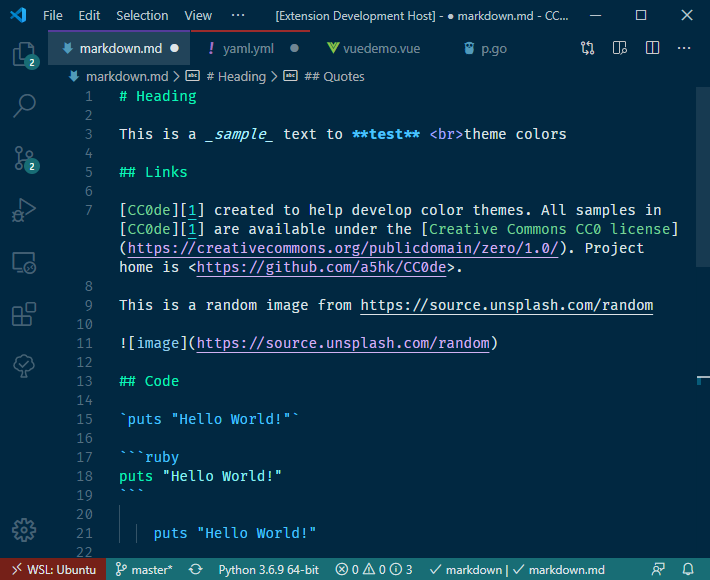
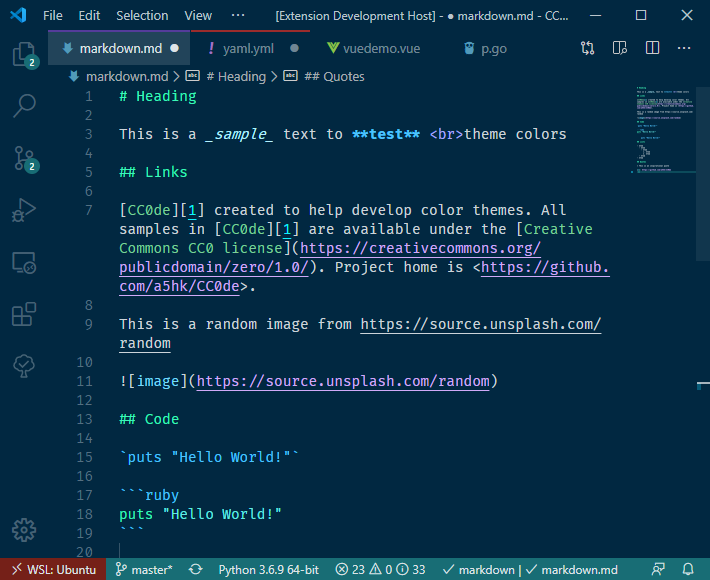
colors

diff --git a/CHANGELOG.md b/CHANGELOG.md
@@ -1,5 +1,9 @@
 # Change Log
 
+## [0.2.0]
+
+- Slightly modified colors
+
 ## [0.1.0]
 
 - Color adjustment
